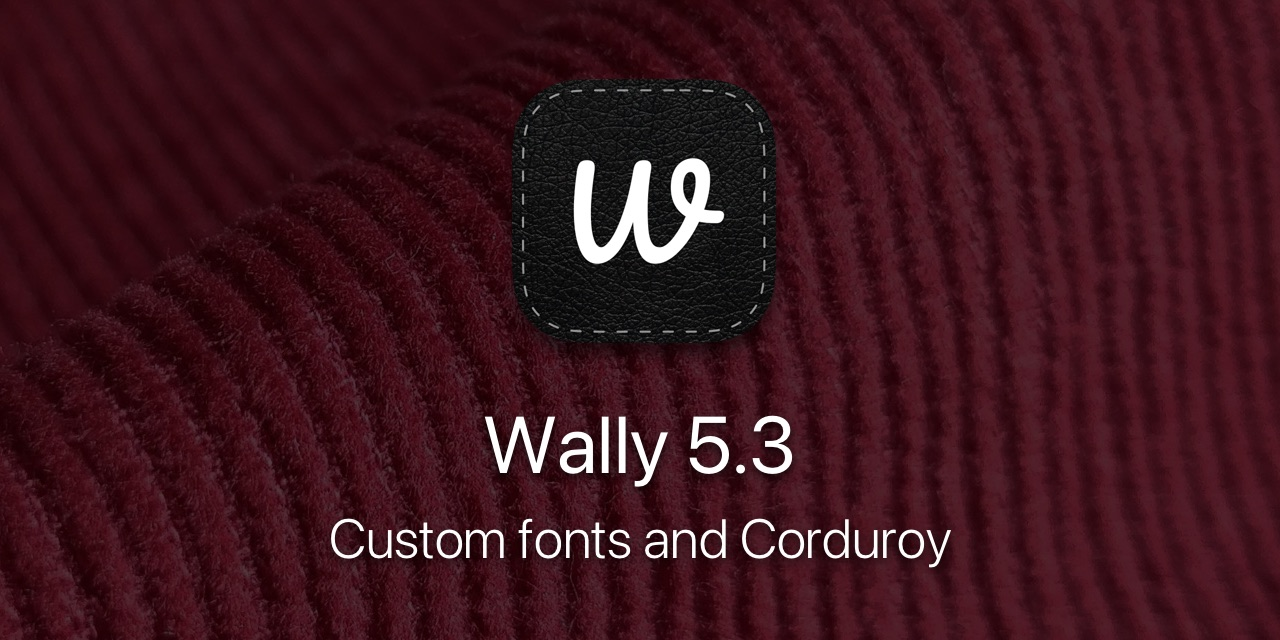
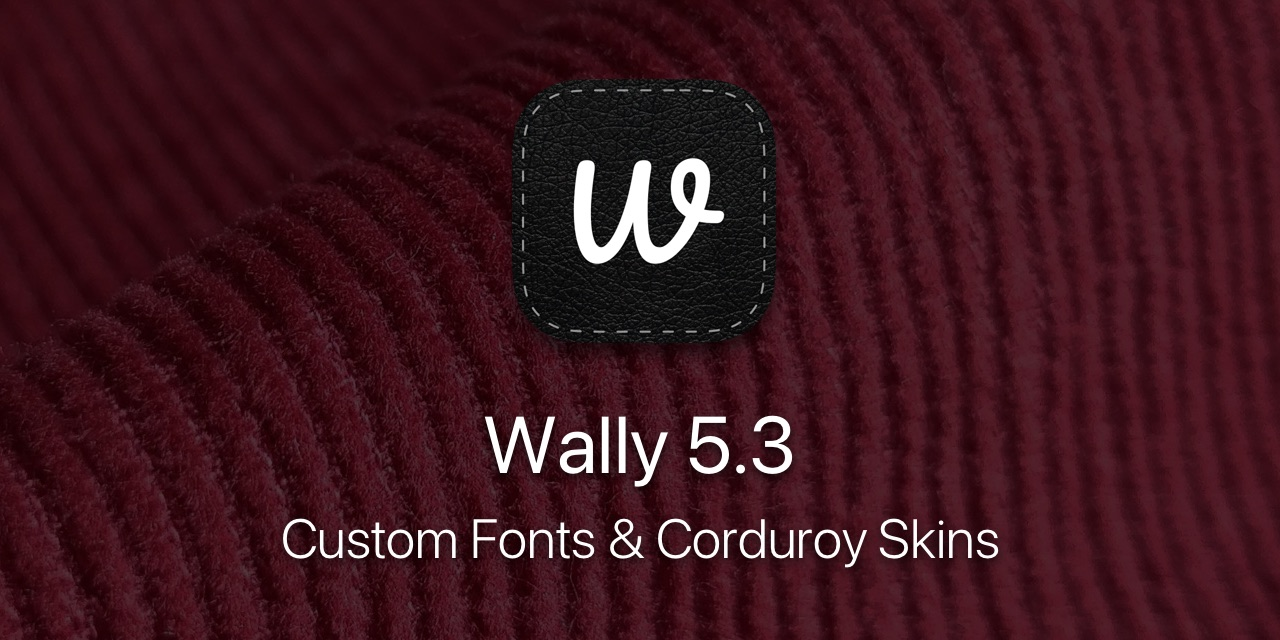
Update blog header

Changed region(s): [[0.2188, 0.8125, 0.7812, 0.875]]

diff --git a/collections/_posts/2025/2025-07-10-wally-5-3.md b/collections/_posts/2025/2025-07-10-wally-5-3.md
@@ -4,16 +4,13 @@ date:  2025-07-10 07:00:00 +0100
 tags:  releases features
 
 image: /assets/headers/v5_3.jpg
-header: /assets/headers/v5_3_notext.jpg
 
 version: Wally 5.3
-
-assets: /assets/blog/25/0321/
 ---
 
-{{page.version}} is out, with support for custom fonts, a new denim skin, and a corduroy skin collection!
+{{page.version}} is out, with support for custom fonts, a new denim skin, and a corduroy skin collection! It also makes it easier to customize the main menu.
 
-![Blog post header]({{page.header}})
+![Blog post header]({{page.image}})
 
 
 ## Custom Fonts
